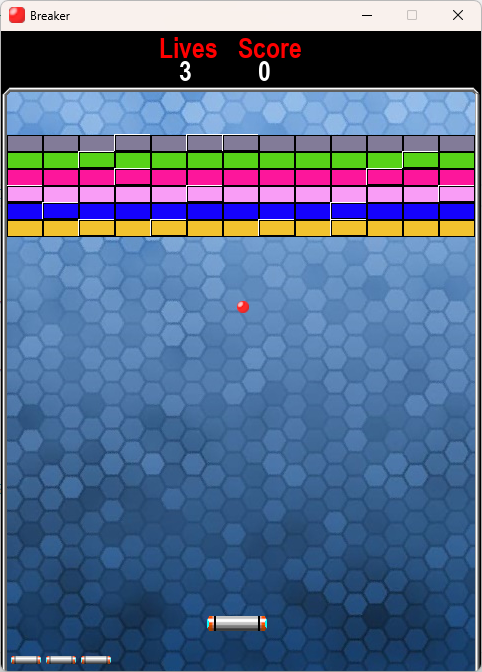
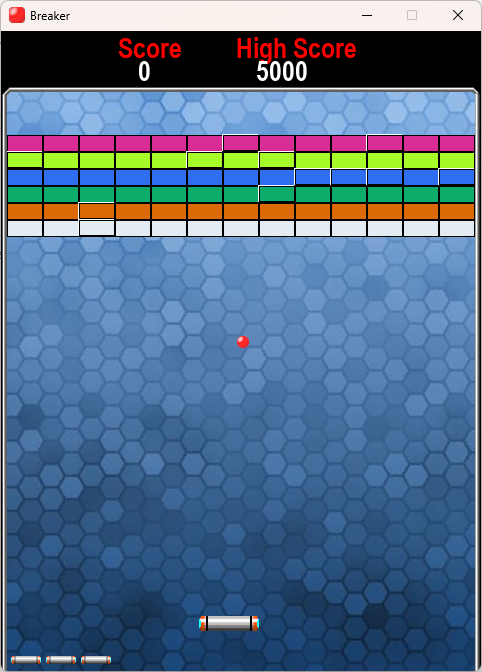
highscore

diff --git a/main.py b/main.py
@@ -30,13 +30,11 @@ ball_step = 350
 
 level: int = 1
 score: int = 0
+highscore: int = 5000
 lives: int = 3
 
 pygame.mixer.music.load('assets/audio/level' + str(level % 5) + '.ogg')
 pygame.mixer.music.play(-1)
-
-
-ball_pos = pygame.rect.Rect(WIDTH / 2 - 8 / 2, HEIGHT / 2, 8, 8)
 
 ball_dir_x = 1
 ball_dir_y = 1
@@ -44,6 +42,9 @@ ball_ang = 0
 
 def reset_player_pos() -> pygame.rect.Rect:
     return pygame.rect.Rect(WIDTH / 2 - 68 / 2, HEIGHT - 55, 60, 15)
+
+def reset_boll_pos() -> pygame.rect.Rect:
+    return pygame.rect.Rect(WIDTH / 2 - 8 / 2, HEIGHT / 2, 8, 8)
 
 def color_dist(color1: tuple[int, int, int], color2: tuple[int, int, int]) -> int:
     distance: int = 0
@@ -84,6 +85,7 @@ def create_bricks() -> list:
     return level
 
 player_pos = reset_player_pos()
+ball_pos = reset_boll_pos()
 bricks = create_bricks()
 
 while running:
@@ -98,15 +100,15 @@ while running:
 
     pygame.draw.rect(screen, (0, 0, 0), pygame.Rect(0, 0, WIDTH, UI_HEIGHT)) # UI
 
-    lives_text = fg_font.render("Lives", True, fg_font_color1)
-    screen.blit(lives_text, (WIDTH / 3 - len("Lives") / 3, 0))
-    lives_text = fg_font.render(str(lives), True, fg_font_color2)
-    screen.blit(lives_text, (WIDTH / 3 - len("Lives") / 3 + 20, 23))
+    lives_text = fg_font.render("Score", True, fg_font_color1)
+    screen.blit(lives_text, (WIDTH - 3 * WIDTH / 4 - len("Score") / 2, 0))
+    lives_text = fg_font.render(str(score), True, fg_font_color2)
+    screen.blit(lives_text, (WIDTH - 3 * WIDTH / 4 - len("Score") / 2 + 20, 23))
     
-    score_text = fg_font.render("Score", True, fg_font_color1)
-    screen.blit(score_text, (WIDTH / 2 - len("Score") / 2, 0))
-    score_number_text = fg_font.render(str(score), True, fg_font_color2)
-    screen.blit(score_number_text, (WIDTH / 2 - len("Score") / 2 + 20, 23))
+    score_text = fg_font.render("High Score", True, fg_font_color1)
+    screen.blit(score_text, (WIDTH - 2 * WIDTH / 4 - len("High Score") / 2, 0))
+    score_number_text = fg_font.render(str(highscore), True, fg_font_color2)
+    screen.blit(score_number_text, (WIDTH - 2 * WIDTH / 4 - len("High Score") / 2 + 20, 23))
     
     # --- BRICK COLLIDE ---
     for block in bricks:
@@ -125,12 +127,14 @@ while running:
                 bricks = create_bricks()
                 score += 250
                 player_pos = reset_player_pos()
-                ball_pos = pygame.rect.Rect(WIDTH / 2 - 8 / 2, HEIGHT / 2, 8, 8)
+                ball_pos = reset_boll_pos()
                 ball_dir_x = 1
                 ball_dir_y = 1
                 ball_ang = 0
             if score % 2500 == 0:
                 lives += 1
+            if score > highscore:
+                highscore = score
 
     # --- BRICK DRAW ---
     for block in bricks:
@@ -162,7 +166,7 @@ while running:
             bricks = create_bricks()
         
         player_pos = reset_player_pos()
-        ball_pos = pygame.rect.Rect(WIDTH / 2 - 8 / 2, HEIGHT / 2, 8, 8)
+        ball_pos = reset_boll_pos()
         ball_dir_x = 1
         ball_dir_y = 1
         ball_ang = 0
